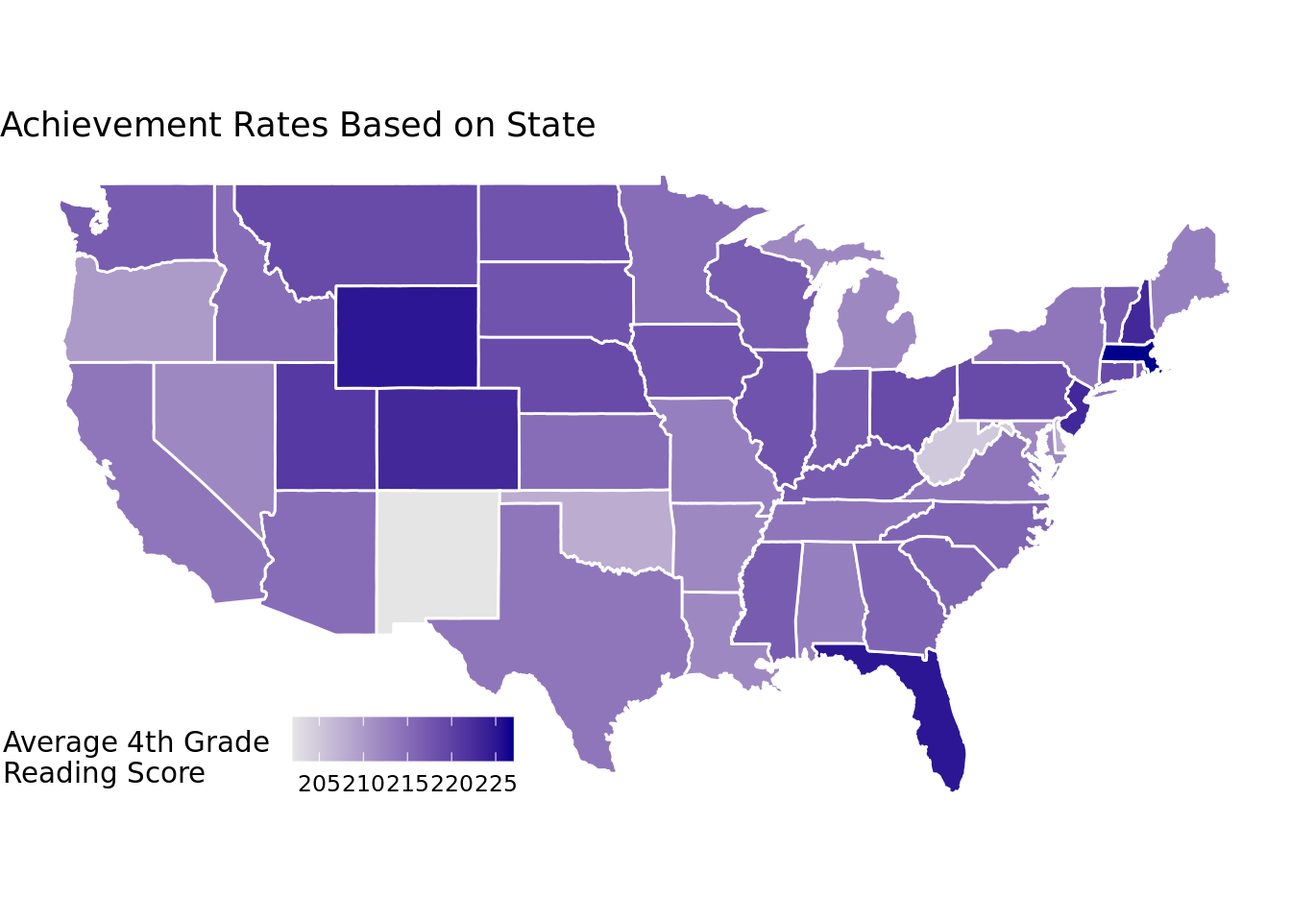
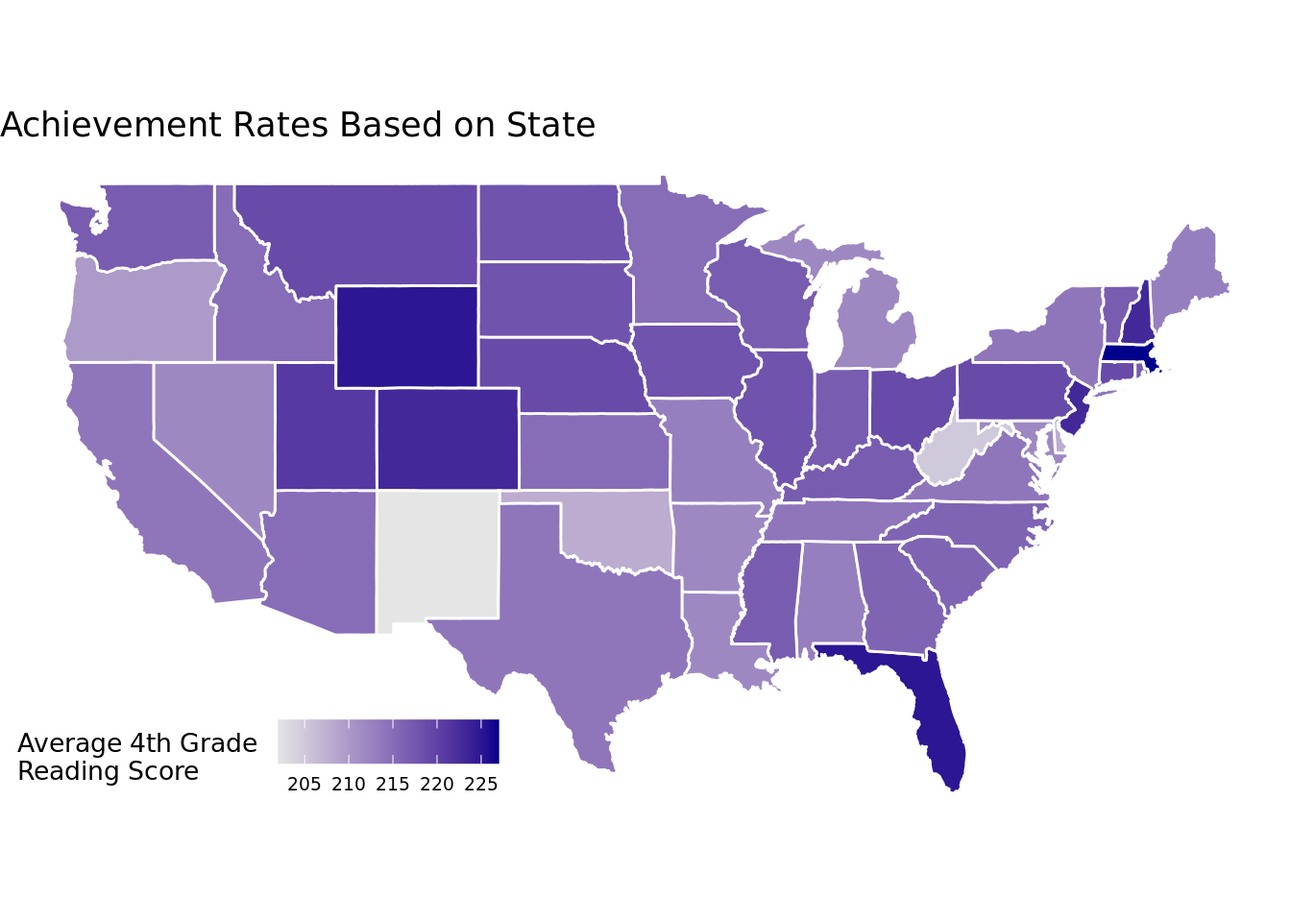
Fixing choropleth map

Changed region(s): [[0.0, 0.7812, 0.4062, 0.875], [0.25, 0.75, 0.375, 0.7812]]

diff --git a/docs/index.html b/docs/index.html
@@ -221,15 +221,17 @@ pre > code.sourceCode > span > a:first-child::before { text-decoration: underlin
 <span id="cb4-10"><a href="#cb4-10" aria-hidden="true" tabindex="-1"></a>  <span class="fu">geom_polygon</span>(<span class="at">color =</span> <span class="st">"white"</span>) <span class="sc">+</span></span>
 <span id="cb4-11"><a href="#cb4-11" aria-hidden="true" tabindex="-1"></a>  <span class="fu">theme_void</span>() <span class="sc">+</span></span>
 <span id="cb4-12"><a href="#cb4-12" aria-hidden="true" tabindex="-1"></a>  <span class="fu">theme</span>(</span>
-<span id="cb4-13"><a href="#cb4-13" aria-hidden="true" tabindex="-1"></a>    <span class="at">legend.position =</span> <span class="fu">c</span>(.<span class="dv">2</span>, .<span class="dv">1</span>),</span>
-<span id="cb4-14"><a href="#cb4-14" aria-hidden="true" tabindex="-1"></a>    <span class="at">legend.direction =</span> <span class="st">"horizontal"</span></span>
-<span id="cb4-15"><a href="#cb4-15" aria-hidden="true" tabindex="-1"></a>    ) <span class="sc">+</span> </span>
-<span id="cb4-16"><a href="#cb4-16" aria-hidden="true" tabindex="-1"></a>  <span class="fu">scale_fill_gradient</span>(<span class="at">low =</span> <span class="st">"gray90"</span>, <span class="at">high =</span> <span class="st">"darkblue"</span>) <span class="sc">+</span></span>
-<span id="cb4-17"><a href="#cb4-17" aria-hidden="true" tabindex="-1"></a>  <span class="fu">coord_quickmap</span>() <span class="sc">+</span> </span>
-<span id="cb4-18"><a href="#cb4-18" aria-hidden="true" tabindex="-1"></a>  <span class="fu">labs</span>(</span>
-<span id="cb4-19"><a href="#cb4-19" aria-hidden="true" tabindex="-1"></a>    <span class="at">title =</span> <span class="st">"Expenditures Based on State"</span>, </span>
-<span id="cb4-20"><a href="#cb4-20" aria-hidden="true" tabindex="-1"></a>    <span class="at">fill =</span> <span class="st">"Expenditure </span><span class="sc">\n</span><span class="st">per Child </span><span class="sc">\n</span><span class="st">(in thousands)"</span></span>
-<span id="cb4-21"><a href="#cb4-21" aria-hidden="true" tabindex="-1"></a>    )</span></code><button title="Copy to Clipboard" class="code-copy-button"><i class="bi"></i></button></pre></div>
+<span id="cb4-13"><a href="#cb4-13" aria-hidden="true" tabindex="-1"></a>    <span class="at">legend.text =</span> <span class="fu">element_text</span>(<span class="at">size=</span><span class="dv">7</span>),</span>
+<span id="cb4-14"><a href="#cb4-14" aria-hidden="true" tabindex="-1"></a>    <span class="at">legend.title =</span> <span class="fu">element_text</span>(<span class="at">size=</span><span class="dv">10</span>),</span>
+<span id="cb4-15"><a href="#cb4-15" aria-hidden="true" tabindex="-1"></a>    <span class="at">legend.position =</span> <span class="fu">c</span>(.<span class="dv">2</span>, .<span class="dv">1</span>),</span>
+<span id="cb4-16"><a href="#cb4-16" aria-hidden="true" tabindex="-1"></a>    <span class="at">legend.direction =</span> <span class="st">"horizontal"</span></span>
+<span id="cb4-17"><a href="#cb4-17" aria-hidden="true" tabindex="-1"></a>    ) <span class="sc">+</span> </span>
+<span id="cb4-18"><a href="#cb4-18" aria-hidden="true" tabindex="-1"></a>  <span class="fu">scale_fill_gradient</span>(<span class="at">low =</span> <span class="st">"gray90"</span>, <span class="at">high =</span> <span class="st">"darkblue"</span>) <span class="sc">+</span></span>
+<span id="cb4-19"><a href="#cb4-19" aria-hidden="true" tabindex="-1"></a>  <span class="fu">coord_quickmap</span>() <span class="sc">+</span> </span>
+<span id="cb4-20"><a href="#cb4-20" aria-hidden="true" tabindex="-1"></a>  <span class="fu">labs</span>(</span>
+<span id="cb4-21"><a href="#cb4-21" aria-hidden="true" tabindex="-1"></a>    <span class="at">title =</span> <span class="st">"Expenditures Based on State"</span>, </span>
+<span id="cb4-22"><a href="#cb4-22" aria-hidden="true" tabindex="-1"></a>    <span class="at">fill =</span> <span class="st">"Expenditure </span><span class="sc">\n</span><span class="st">per Child </span><span class="sc">\n</span><span class="st">(in thousands)"</span></span>
+<span id="cb4-23"><a href="#cb4-23" aria-hidden="true" tabindex="-1"></a>    )</span></code><button title="Copy to Clipboard" class="code-copy-button"><i class="bi"></i></button></pre></div>
 <div class="cell-output-display">
 <div>
 <figure class="figure">
@@ -240,7 +242,8 @@ pre > code.sourceCode > span > a:first-child::before { text-decoration: underlin
 </div>
 <div class="cell">
 <div class="sourceCode cell-code" id="cb5"><pre class="sourceCode r code-with-copy"><code class="sourceCode r"><span id="cb5-1"><a href="#cb5-1" aria-hidden="true" tabindex="-1"></a>scores_new <span class="ot">&lt;-</span> scores <span class="sc">|&gt;</span> </span>
-<span id="cb5-2"><a href="#cb5-2" aria-hidden="true" tabindex="-1"></a>  <span class="fu">mutate</span>(<span class="at">region =</span> <span class="fu">str_to_lower</span>(Jurisdiction), <span class="at">MN =</span> <span class="fu">as.numeric</span>(MN))</span></code><button title="Copy to Clipboard" class="code-copy-button"><i class="bi"></i></button></pre></div>
+<span id="cb5-2"><a href="#cb5-2" aria-hidden="true" tabindex="-1"></a>  <span class="fu">filter</span>(MN <span class="sc">!=</span> <span class="fu">is.na</span>(MN)) <span class="sc">|&gt;</span></span>
+<span id="cb5-3"><a href="#cb5-3" aria-hidden="true" tabindex="-1"></a>  <span class="fu">mutate</span>(<span class="at">region =</span> <span class="fu">str_to_lower</span>(Jurisdiction), <span class="at">MN =</span> <span class="fu">as.numeric</span>(MN))</span></code><button title="Copy to Clipboard" class="code-copy-button"><i class="bi"></i></button></pre></div>
 <div class="cell-output cell-output-stderr">
 <pre><code>Warning: There was 1 warning in `mutate()`.
 ℹ In argument: `MN = as.numeric(MN)`.
@@ -260,14 +263,16 @@ Caused by warning:
 <span id="cb7-11"><a href="#cb7-11" aria-hidden="true" tabindex="-1"></a>  <span class="fu">theme_void</span>() <span class="sc">+</span> </span>
 <span id="cb7-12"><a href="#cb7-12" aria-hidden="true" tabindex="-1"></a>  <span class="fu">scale_fill_gradient</span>(<span class="at">low =</span> <span class="st">"gray90"</span>, <span class="at">high =</span> <span class="st">"darkblue"</span>) <span class="sc">+</span></span>
 <span id="cb7-13"><a href="#cb7-13" aria-hidden="true" tabindex="-1"></a>  <span class="fu">theme</span>(</span>
-<span id="cb7-14"><a href="#cb7-14" aria-hidden="true" tabindex="-1"></a>    <span class="at">legend.position =</span> <span class="fu">c</span>(.<span class="dv">2</span>, .<span class="dv">1</span>),</span>
-<span id="cb7-15"><a href="#cb7-15" aria-hidden="true" tabindex="-1"></a>    <span class="at">legend.direction =</span> <span class="st">"horizontal"</span>, </span>
-<span id="cb7-16"><a href="#cb7-16" aria-hidden="true" tabindex="-1"></a>        ) <span class="sc">+</span></span>
-<span id="cb7-17"><a href="#cb7-17" aria-hidden="true" tabindex="-1"></a>  <span class="fu">coord_quickmap</span>() <span class="sc">+</span> </span>
-<span id="cb7-18"><a href="#cb7-18" aria-hidden="true" tabindex="-1"></a>  <span class="fu">labs</span>(</span>
-<span id="cb7-19"><a href="#cb7-19" aria-hidden="true" tabindex="-1"></a>    <span class="at">title =</span> <span class="st">"Achievement Rates Based on State"</span>, </span>
-<span id="cb7-20"><a href="#cb7-20" aria-hidden="true" tabindex="-1"></a>    <span class="at">fill =</span> <span class="st">"Average 4th Grade </span><span class="sc">\n</span><span class="st">Reading Score"</span></span>
-<span id="cb7-21"><a href="#cb7-21" aria-hidden="true" tabindex="-1"></a>    )</span></code><button title="Copy to Clipboard" class="code-copy-button"><i class="bi"></i></button></pre></div>
+<span id="cb7-14"><a href="#cb7-14" aria-hidden="true" tabindex="-1"></a>    <span class="at">legend.text =</span> <span class="fu">element_text</span>(<span class="at">size=</span><span class="dv">7</span>),</span>
+<span id="cb7-15"><a href="#cb7-15" aria-hidden="true" tabindex="-1"></a>    <span class="at">legend.title =</span> <span class="fu">element_text</span>(<span class="at">size=</span><span class="dv">10</span>),</span>
+<span id="cb7-16"><a href="#cb7-16" aria-hidden="true" tabindex="-1"></a>    <span class="at">legend.position =</span> <span class="fu">c</span>(.<span class="dv">2</span>, .<span class="dv">1</span>),</span>
+<span id="cb7-17"><a href="#cb7-17" aria-hidden="true" tabindex="-1"></a>    <span class="at">legend.direction =</span> <span class="st">"horizontal"</span></span>
+<span id="cb7-18"><a href="#cb7-18" aria-hidden="true" tabindex="-1"></a>        ) <span class="sc">+</span></span>
+<span id="cb7-19"><a href="#cb7-19" aria-hidden="true" tabindex="-1"></a>  <span class="fu">coord_quickmap</span>() <span class="sc">+</span> </span>
+<span id="cb7-20"><a href="#cb7-20" aria-hidden="true" tabindex="-1"></a>  <span class="fu">labs</span>(</span>
+<span id="cb7-21"><a href="#cb7-21" aria-hidden="true" tabindex="-1"></a>    <span class="at">title =</span> <span class="st">"Achievement Rates Based on State"</span>, </span>
+<span id="cb7-22"><a href="#cb7-22" aria-hidden="true" tabindex="-1"></a>    <span class="at">fill =</span> <span class="st">"Average 4th Grade </span><span class="sc">\n</span><span class="st">Reading Score"</span></span>
+<span id="cb7-23"><a href="#cb7-23" aria-hidden="true" tabindex="-1"></a>    )</span></code><button title="Copy to Clipboard" class="code-copy-button"><i class="bi"></i></button></pre></div>
 <div class="cell-output-display">
 <div>
 <figure class="figure">
@@ -301,7 +306,8 @@ Caused by warning:
 <section id="forward-selection-approach-to-linear-regression-model-for-predictors-of-4th-grade-reading-levels" class="level1">
 <h1>Forward Selection Approach to Linear Regression Model for Predictors of 4th Grade Reading Levels</h1>
 <p><strong>Literature Review:</strong> What factors are most important in predicting elementary academic achievement levels?</p>
-<p><a href="https://portal.ct.gov/-/media/SDE/ESSA-Evidence-Guides/Early_Skills_and_Predictors_of_Academic_Success#:~:text=Behavioral%20skills%20have%20been%20found,behavioral%20skills%20are%20developing%20appropriately." class="uri">https://portal.ct.gov/-/media/SDE/ESSA-Evidence-Guides/Early_Skills_and_Predictors_of_Academic_Success#:~:text=Behavioral%20skills%20have%20been%20found,behavioral%20skills%20are%20developing%20appropriately.</a></p>
+<p><a href="https://portal.ct.gov/-/media/SDE/ESSA-Evidence-Guides/Early_Skills_and_Predictors_of_Academic_Success#:~:text=Behavioral%20skills%20have%20been%20found,behavioral%20skills%20are%20developing%20appropriately." class="uri">https://portal.ct.gov/-/media/SDE/ESSA-Evidence-Guides/Early_Skills_and_Predictors_of_Academic_Success</a></p>
+<p><a href="https://portal.ct.gov/-/media/SDE/ESSA-Evidence-Guides/Early_Skills_and_Predictors_of_Academic_Success#:~:text=Behavioral%20skills%20have%20been%20found,behavioral%20skills%20are%20developing%20appropriately." class="uri">#:~:text=Behavioral%20skills%20have%20been%20found,behavioral%20skills%20are%20developing%20appropriately.</a></p>
 <ul>
 <li><p>Behavioral skills, are influenced by parental monitoring and family stability</p>
 <ul>
@@ -332,7 +338,8 @@ Caused by warning:
 <li>Likely mediated by differences in the socioeconomic statuses of families</li>
 </ul></li>
 </ul>
-<p><a href="https://www.apa.org/news/press/releases/2023/06/quality-child-care-science-math#:~:text=Washington%20%E2%80%94%20Children%20who%20receive%20high,by%20the%20American%20Psychological%20Association." class="uri">https://www.apa.org/news/press/releases/2023/06/quality-child-care-science-math#:~:text=Washington%20%E2%80%94%20Children%20who%20receive%20high,by%20the%20American%20Psychological%20Association.</a></p>
+<p><a href="https://www.apa.org/news/press/releases/2023/06/quality-child-care-science-math#:~:text=Washington%20%E2%80%94%20Children%20who%20receive%20high,by%20the%20American%20Psychological%20Association." class="uri">https://www.apa.org/news/press/releases/2023/06/quality-child-care-science-math#:~:text=Washington%20%E2%80%94%20Children%20who%20receive%20high</a></p>
+<p><a href="https://www.apa.org/news/press/releases/2023/06/quality-child-care-science-math#:~:text=Washington%20%E2%80%94%20Children%20who%20receive%20high,by%20the%20American%20Psychological%20Association." class="uri">,by%20the%20American%20Psychological%20Association.</a></p>
 <ul>
 <li>High-quality childcare has been rigorously shown to lead to better performance in science, technology, engineering, and math through high school</li>
 </ul>
@@ -1103,7 +1110,6 @@ Caused by warning:
 <span id="cb15-12"><a href="#cb15-12" aria-hidden="true" tabindex="-1"></a>    <span class="at">names_to =</span> <span class="st">"sector_type"</span>, </span>
 <span id="cb15-13"><a href="#cb15-13" aria-hidden="true" tabindex="-1"></a>    <span class="at">values_to =</span> <span class="st">"sector_percentage"</span></span>
 <span id="cb15-14"><a href="#cb15-14" aria-hidden="true" tabindex="-1"></a>  ) <span class="sc">|&gt;</span></span>
-<<<<<<< HEAD
 <span id="cb15-15"><a href="#cb15-15" aria-hidden="true" tabindex="-1"></a>  <span class="fu">mutate</span>(</span>
 <span id="cb15-16"><a href="#cb15-16" aria-hidden="true" tabindex="-1"></a>    <span class="at">sector_type =</span> <span class="fu">case_when</span>(</span>
 <span id="cb15-17"><a href="#cb15-17" aria-hidden="true" tabindex="-1"></a>    sector_type <span class="sc">==</span> <span class="st">"emp_m"</span> <span class="sc">~</span> <span class="st">"Management and Science"</span>, </span>
@@ -1123,92 +1129,53 @@ Caused by warning:
 <span id="cb15-31"><a href="#cb15-31" aria-hidden="true" tabindex="-1"></a><span class="co">#Grouping and summarizing data </span></span>
 <span id="cb15-32"><a href="#cb15-32" aria-hidden="true" tabindex="-1"></a>summarized_data <span class="ot">&lt;-</span> best_states_data <span class="sc">|&gt;</span></span>
 <span id="cb15-33"><a href="#cb15-33" aria-hidden="true" tabindex="-1"></a>  <span class="fu">group_by</span>(state_name, sector_type) <span class="sc">|&gt;</span></span>
-<span id="cb15-34"><a href="#cb15-34" aria-hidden="true" tabindex="-1"></a>  <span class="fu">summarize</span>(<span class="at">mean_percentage =</span> <span class="fu">mean</span>(sector_percentage)) </span>
-<span id="cb15-35"><a href="#cb15-35" aria-hidden="true" tabindex="-1"></a></span>
-<span id="cb15-36"><a href="#cb15-36" aria-hidden="true" tabindex="-1"></a></span>
-<span id="cb15-37"><a href="#cb15-37" aria-hidden="true" tabindex="-1"></a><span class="co">#Identifying mean percentage in each field in each state in each year</span></span>
-<span id="cb15-38"><a href="#cb15-38" aria-hidden="true" tabindex="-1"></a></span>
-<span id="cb15-39"><a href="#cb15-39" aria-hidden="true" tabindex="-1"></a>summarized_data <span class="ot">&lt;-</span> best_states_data <span class="sc">|&gt;</span></span>
-<span id="cb15-40"><a href="#cb15-40" aria-hidden="true" tabindex="-1"></a>  <span class="fu">group_by</span>(state_name, sector_type, study_year) <span class="sc">|&gt;</span></span>
-<span id="cb15-41"><a href="#cb15-41" aria-hidden="true" tabindex="-1"></a>  <span class="fu">summarize</span>(<span class="at">mean_percentage =</span> <span class="fu">mean</span>(sector_percentage))</span>
-<span id="cb15-42"><a href="#cb15-42" aria-hidden="true" tabindex="-1"></a>  </span>
-<span id="cb15-43"><a href="#cb15-43" aria-hidden="true" tabindex="-1"></a><span class="co">#Merging data </span></span>
-<span id="cb15-44"><a href="#cb15-44" aria-hidden="true" tabindex="-1"></a>merged_final_data <span class="ot">&lt;-</span> <span class="fu">left_join</span>(</span>
-<span id="cb15-45"><a href="#cb15-45" aria-hidden="true" tabindex="-1"></a>  best_states_data, summarized_data, </span>
-<span id="cb15-46"><a href="#cb15-46" aria-hidden="true" tabindex="-1"></a>  <span class="fu">join_by</span>(state_name, sector_type, study_year)</span>
-<span id="cb15-47"><a href="#cb15-47" aria-hidden="true" tabindex="-1"></a>  )</span></code><button title="Copy to Clipboard" class="code-copy-button"><i class="bi"></i></button></pre></div>
+<span id="cb15-34"><a href="#cb15-34" aria-hidden="true" tabindex="-1"></a>  <span class="fu">summarize</span>(<span class="at">mean_percentage =</span> <span class="fu">mean</span>(sector_percentage)) </span></code><button title="Copy to Clipboard" class="code-copy-button"><i class="bi"></i></button></pre></div>
+<div class="cell-output cell-output-stderr">
+<pre><code>`summarise()` has grouped output by 'state_name'. You can override using the
+`.groups` argument.</code></pre>
 </div>
-<div class="cell">
-<div class="sourceCode cell-code" id="cb16"><pre class="sourceCode r code-with-copy"><code class="sourceCode r"><span id="cb16-1"><a href="#cb16-1" aria-hidden="true" tabindex="-1"></a>merged_final_data <span class="ot">&lt;-</span> merged_final_data <span class="sc">|&gt;</span> </span>
-<span id="cb16-2"><a href="#cb16-2" aria-hidden="true" tabindex="-1"></a>  <span class="fu">mutate</span>(</span>
-<span id="cb16-3"><a href="#cb16-3" aria-hidden="true" tabindex="-1"></a>    <span class="at">sector_type =</span> <span class="fu">fct_reorder</span>(</span>
-<span id="cb16-4"><a href="#cb16-4" aria-hidden="true" tabindex="-1"></a>      sector_type, </span>
-<span id="cb16-5"><a href="#cb16-5" aria-hidden="true" tabindex="-1"></a>      mean_percentage, </span>
-<span id="cb16-6"><a href="#cb16-6" aria-hidden="true" tabindex="-1"></a>      <span class="at">.desc =</span> <span class="cn">TRUE</span>, </span>
-<span id="cb16-7"><a href="#cb16-7" aria-hidden="true" tabindex="-1"></a>      <span class="at">.fun =</span> median</span>
-<span id="cb16-8"><a href="#cb16-8" aria-hidden="true" tabindex="-1"></a>      )</span>
-<span id="cb16-9"><a href="#cb16-9" aria-hidden="true" tabindex="-1"></a>    ) <span class="sc">|&gt;</span> </span>
-<span id="cb16-10"><a href="#cb16-10" aria-hidden="true" tabindex="-1"></a>  <span class="fu">filter</span>(<span class="sc">!</span><span class="fu">is.na</span>(state_name))</span>
-<span id="cb16-11"><a href="#cb16-11" aria-hidden="true" tabindex="-1"></a></span>
-<span id="cb16-12"><a href="#cb16-12" aria-hidden="true" tabindex="-1"></a><span class="co">#Creating visualization</span></span>
-<span id="cb16-13"><a href="#cb16-13" aria-hidden="true" tabindex="-1"></a>merged_final_data <span class="sc">|&gt;</span> </span>
-<span id="cb16-14"><a href="#cb16-14" aria-hidden="true" tabindex="-1"></a>  <span class="fu">ggplot</span>(<span class="fu">aes</span>(<span class="at">x =</span> study_year, <span class="at">y =</span> mean_percentage, <span class="at">fill =</span> sector_type)) <span class="sc">+</span> </span>
-<span id="cb16-15"><a href="#cb16-15" aria-hidden="true" tabindex="-1"></a>  <span class="fu">geom_density</span>(<span class="at">stat =</span> <span class="st">"identity"</span>, <span class="at">alpha =</span> <span class="fl">0.5</span>) <span class="sc">+</span></span>
-<span id="cb16-16"><a href="#cb16-16" aria-hidden="true" tabindex="-1"></a>  <span class="fu">facet_wrap</span>(<span class="sc">~</span> state_name) <span class="sc">+</span></span>
-<span id="cb16-17"><a href="#cb16-17" aria-hidden="true" tabindex="-1"></a>  <span class="fu">scale_x_continuous</span>(<span class="at">breaks =</span> <span class="fu">c</span>(<span class="dv">2008</span>, <span class="dv">2010</span>, <span class="dv">2012</span>, <span class="dv">2014</span>, <span class="dv">2016</span>, <span class="dv">2018</span>)) <span class="sc">+</span></span>
-<span id="cb16-18"><a href="#cb16-18" aria-hidden="true" tabindex="-1"></a>  <span class="fu">labs</span>(</span>
-<span id="cb16-19"><a href="#cb16-19" aria-hidden="true" tabindex="-1"></a>    <span class="at">x =</span> <span class="st">"Year"</span>,</span>
-<span id="cb16-20"><a href="#cb16-20" aria-hidden="true" tabindex="-1"></a>    <span class="at">y =</span> <span class="st">"Population Percentage Employed"</span>,</span>
-<span id="cb16-21"><a href="#cb16-21" aria-hidden="true" tabindex="-1"></a>    <span class="at">title =</span> <span class="st">"Percentage of Population Employed in Sector by State"</span>,</span>
-<span id="cb16-22"><a href="#cb16-22" aria-hidden="true" tabindex="-1"></a>    <span class="at">fill =</span> <span class="st">"Sector"</span></span>
-<span id="cb16-23"><a href="#cb16-23" aria-hidden="true" tabindex="-1"></a>    ) <span class="sc">+</span></span>
-<span id="cb16-24"><a href="#cb16-24" aria-hidden="true" tabindex="-1"></a>  <span class="fu">theme_bw</span>() <span class="sc">+</span></span>
-<span id="cb16-25"><a href="#cb16-25" aria-hidden="true" tabindex="-1"></a>  <span class="fu">scale_fill_viridis_d</span>(<span class="at">option =</span> <span class="st">"B"</span>)</span></code><button title="Copy to Clipboard" class="code-copy-button"><i class="bi"></i></button></pre></div>
-=======
-<span id="cb15-15"><a href="#cb15-15" aria-hidden="true" tabindex="-1"></a>  <span class="fu">mutate</span>(<span class="at">sector_type =</span> <span class="fu">case_when</span>(</span>
-<span id="cb15-16"><a href="#cb15-16" aria-hidden="true" tabindex="-1"></a>    sector_type <span class="sc">==</span> <span class="st">"emp_m"</span> <span class="sc">~</span> <span class="st">"Management and Science"</span>, </span>
-<span id="cb15-17"><a href="#cb15-17" aria-hidden="true" tabindex="-1"></a>    sector_type <span class="sc">==</span> <span class="st">"emp_n"</span> <span class="sc">~</span> <span class="st">"Natural Resources"</span>, </span>
-<span id="cb15-18"><a href="#cb15-18" aria-hidden="true" tabindex="-1"></a>    sector_type <span class="sc">==</span> <span class="st">"emp_p"</span> <span class="sc">~</span> <span class="st">"Production"</span>, </span>
-<span id="cb15-19"><a href="#cb15-19" aria-hidden="true" tabindex="-1"></a>    sector_type <span class="sc">==</span> <span class="st">"emp_service"</span> <span class="sc">~</span> <span class="st">"Public Service"</span>,</span>
-<span id="cb15-20"><a href="#cb15-20" aria-hidden="true" tabindex="-1"></a>    sector_type <span class="sc">==</span> <span class="st">"emp_sales"</span> <span class="sc">~</span> <span class="st">"Sales and Office"</span></span>
-<span id="cb15-21"><a href="#cb15-21" aria-hidden="true" tabindex="-1"></a>    ), </span>
-<span id="cb15-22"><a href="#cb15-22" aria-hidden="true" tabindex="-1"></a>    <span class="at">state_name =</span> <span class="fu">case_when</span>(</span>
-<span id="cb15-23"><a href="#cb15-23" aria-hidden="true" tabindex="-1"></a>      state_name <span class="sc">==</span> <span class="st">"Massachusetts"</span> <span class="sc">~</span> <span class="st">"MA"</span>, </span>
-<span id="cb15-24"><a href="#cb15-24" aria-hidden="true" tabindex="-1"></a>      state_name <span class="sc">==</span> <span class="st">"New Hampshire"</span> <span class="sc">~</span> <span class="st">"NH"</span>,</span>
-<span id="cb15-25"><a href="#cb15-25" aria-hidden="true" tabindex="-1"></a>      state_name <span class="sc">==</span> <span class="st">"New Jersey"</span> <span class="sc">~</span> <span class="st">"NJ"</span>,</span>
-<span id="cb15-26"><a href="#cb15-26" aria-hidden="true" tabindex="-1"></a>      state_name <span class="sc">==</span> <span class="st">"Wyoming"</span> <span class="sc">~</span> <span class="st">"WY"</span></span>
-<span id="cb15-27"><a href="#cb15-27" aria-hidden="true" tabindex="-1"></a>    )</span>
-<span id="cb15-28"><a href="#cb15-28" aria-hidden="true" tabindex="-1"></a>  )</span>
-<span id="cb15-29"><a href="#cb15-29" aria-hidden="true" tabindex="-1"></a></span>
-<span id="cb15-30"><a href="#cb15-30" aria-hidden="true" tabindex="-1"></a><span class="co">#Identifying mean percentage in each field in each state in each year</span></span>
-<span id="cb15-31"><a href="#cb15-31" aria-hidden="true" tabindex="-1"></a></span>
-<span id="cb15-32"><a href="#cb15-32" aria-hidden="true" tabindex="-1"></a>summarized_data <span class="ot">&lt;-</span> best_states_data <span class="sc">|&gt;</span></span>
-<span id="cb15-33"><a href="#cb15-33" aria-hidden="true" tabindex="-1"></a>  <span class="fu">group_by</span>(state_name, sector_type, study_year) <span class="sc">|&gt;</span></span>
-<span id="cb15-34"><a href="#cb15-34" aria-hidden="true" tabindex="-1"></a>  <span class="fu">summarize</span>(<span class="at">mean_percentage =</span> <span class="fu">mean</span>(sector_percentage))</span></code><button title="Copy to Clipboard" class="code-copy-button"><i class="bi"></i></button></pre></div>
+<div class="sourceCode cell-code" id="cb17"><pre class="sourceCode r code-with-copy"><code class="sourceCode r"><span id="cb17-1"><a href="#cb17-1" aria-hidden="true" tabindex="-1"></a><span class="co">#Identifying mean percentage in each field in each state in each year</span></span>
+<span id="cb17-2"><a href="#cb17-2" aria-hidden="true" tabindex="-1"></a></span>
+<span id="cb17-3"><a href="#cb17-3" aria-hidden="true" tabindex="-1"></a>summarized_data <span class="ot">&lt;-</span> best_states_data <span class="sc">|&gt;</span></span>
+<span id="cb17-4"><a href="#cb17-4" aria-hidden="true" tabindex="-1"></a>  <span class="fu">group_by</span>(state_name, sector_type, study_year) <span class="sc">|&gt;</span></span>
+<span id="cb17-5"><a href="#cb17-5" aria-hidden="true" tabindex="-1"></a>  <span class="fu">summarize</span>(<span class="at">mean_percentage =</span> <span class="fu">mean</span>(sector_percentage))</span></code><button title="Copy to Clipboard" class="code-copy-button"><i class="bi"></i></button></pre></div>
 <div class="cell-output cell-output-stderr">
 <pre><code>`summarise()` has grouped output by 'state_name', 'sector_type'. You can
 override using the `.groups` argument.</code></pre>
 </div>
-<div class="sourceCode cell-code" id="cb17"><pre class="sourceCode r code-with-copy"><code class="sourceCode r"><span id="cb17-1"><a href="#cb17-1" aria-hidden="true" tabindex="-1"></a><span class="co">#Merging data </span></span>
-<span id="cb17-2"><a href="#cb17-2" aria-hidden="true" tabindex="-1"></a>merged_final_data <span class="ot">&lt;-</span> <span class="fu">left_join</span>(best_states_data, summarized_data, <span class="fu">join_by</span>(state_name, sector_type, study_year))</span></code><button title="Copy to Clipboard" class="code-copy-button"><i class="bi"></i></button></pre></div>
+<div class="sourceCode cell-code" id="cb19"><pre class="sourceCode r code-with-copy"><code class="sourceCode r"><span id="cb19-1"><a href="#cb19-1" aria-hidden="true" tabindex="-1"></a><span class="co">#Merging data </span></span>
+<span id="cb19-2"><a href="#cb19-2" aria-hidden="true" tabindex="-1"></a>merged_final_data <span class="ot">&lt;-</span> <span class="fu">left_join</span>(</span>
+<span id="cb19-3"><a href="#cb19-3" aria-hidden="true" tabindex="-1"></a>  best_states_data, summarized_data, </span>
+<span id="cb19-4"><a href="#cb19-4" aria-hidden="true" tabindex="-1"></a>  <span class="fu">join_by</span>(state_name, sector_type, study_year)</span>
+<span id="cb19-5"><a href="#cb19-5" aria-hidden="true" tabindex="-1"></a>  )</span></code><button title="Copy to Clipboard" class="code-copy-button"><i class="bi"></i></button></pre></div>
 </div>
 <div class="cell">
-<div class="sourceCode cell-code" id="cb18"><pre class="sourceCode r code-with-copy"><code class="sourceCode r"><span id="cb18-1"><a href="#cb18-1" aria-hidden="true" tabindex="-1"></a><span class="co">#Creating visualization 3</span></span>
-<span id="cb18-2"><a href="#cb18-2" aria-hidden="true" tabindex="-1"></a>merged_final_data <span class="ot">&lt;-</span> merged_final_data <span class="sc">|&gt;</span> </span>
-<span id="cb18-3"><a href="#cb18-3" aria-hidden="true" tabindex="-1"></a>  <span class="fu">mutate</span>(</span>
-<span id="cb18-4"><a href="#cb18-4" aria-hidden="true" tabindex="-1"></a>    <span class="at">sector_type =</span> <span class="fu">fct_reorder</span>(sector_type, mean_percentage, <span class="at">.desc =</span> <span class="cn">TRUE</span>, <span class="at">.fun =</span> median)</span>
-<span id="cb18-5"><a href="#cb18-5" aria-hidden="true" tabindex="-1"></a>  ) <span class="sc">|&gt;</span> </span>
-<span id="cb18-6"><a href="#cb18-6" aria-hidden="true" tabindex="-1"></a>  <span class="fu">filter</span>(<span class="sc">!</span><span class="fu">is.na</span>(state_name))</span>
-<span id="cb18-7"><a href="#cb18-7" aria-hidden="true" tabindex="-1"></a></span>
-<span id="cb18-8"><a href="#cb18-8" aria-hidden="true" tabindex="-1"></a>merged_final_data <span class="sc">|&gt;</span> </span>
-<span id="cb18-9"><a href="#cb18-9" aria-hidden="true" tabindex="-1"></a>  <span class="fu">ggplot</span>(<span class="fu">aes</span>(<span class="at">x =</span> study_year, <span class="at">y =</span> mean_percentage, <span class="at">fill =</span> sector_type)) <span class="sc">+</span> </span>
-<span id="cb18-10"><a href="#cb18-10" aria-hidden="true" tabindex="-1"></a>  <span class="fu">geom_density</span>(<span class="at">stat =</span> <span class="st">"identity"</span>, <span class="at">alpha =</span> <span class="fl">0.5</span>) <span class="sc">+</span></span>
-<span id="cb18-11"><a href="#cb18-11" aria-hidden="true" tabindex="-1"></a>  <span class="fu">facet_wrap</span>(<span class="sc">~</span> state_name) <span class="sc">+</span></span>
-<span id="cb18-12"><a href="#cb18-12" aria-hidden="true" tabindex="-1"></a>  <span class="fu">scale_x_continuous</span>(<span class="at">breaks =</span> <span class="fu">c</span>(<span class="dv">2008</span>, <span class="dv">2010</span>, <span class="dv">2012</span>, <span class="dv">2014</span>, <span class="dv">2016</span>, <span class="dv">2018</span>)) <span class="sc">+</span></span>
-<span id="cb18-13"><a href="#cb18-13" aria-hidden="true" tabindex="-1"></a>  <span class="fu">labs</span>(<span class="at">x =</span> <span class="st">"Year"</span>, <span class="at">y =</span> <span class="st">"Population Percentage Employed"</span>, <span class="at">title =</span> <span class="st">"Percentage of Population Employed in Sector by State"</span>, <span class="at">fill =</span> <span class="st">"Sector"</span>) <span class="sc">+</span></span>
-<span id="cb18-14"><a href="#cb18-14" aria-hidden="true" tabindex="-1"></a>  <span class="fu">theme_bw</span>() <span class="sc">+</span></span>
-<span id="cb18-15"><a href="#cb18-15" aria-hidden="true" tabindex="-1"></a>  <span class="fu">scale_fill_viridis_d</span>(<span class="at">option =</span> <span class="st">"B"</span>)</span></code><button title="Copy to Clipboard" class="code-copy-button"><i class="bi"></i></button></pre></div>
->>>>>>> 334a747ac9fdf5e939691a904001da71cacc0dcf
+<div class="sourceCode cell-code" id="cb20"><pre class="sourceCode r code-with-copy"><code class="sourceCode r"><span id="cb20-1"><a href="#cb20-1" aria-hidden="true" tabindex="-1"></a><span class="co">#Creating visualization 3</span></span>
+<span id="cb20-2"><a href="#cb20-2" aria-hidden="true" tabindex="-1"></a>merged_final_data <span class="ot">&lt;-</span> merged_final_data <span class="sc">|&gt;</span> </span>
+<span id="cb20-3"><a href="#cb20-3" aria-hidden="true" tabindex="-1"></a>  <span class="fu">mutate</span>(</span>
+<span id="cb20-4"><a href="#cb20-4" aria-hidden="true" tabindex="-1"></a>    <span class="at">sector_type =</span> <span class="fu">fct_reorder</span>(</span>
+<span id="cb20-5"><a href="#cb20-5" aria-hidden="true" tabindex="-1"></a>      sector_type, </span>
+<span id="cb20-6"><a href="#cb20-6" aria-hidden="true" tabindex="-1"></a>      mean_percentage, </span>
+<span id="cb20-7"><a href="#cb20-7" aria-hidden="true" tabindex="-1"></a>      <span class="at">.desc =</span> <span class="cn">TRUE</span>, </span>
+<span id="cb20-8"><a href="#cb20-8" aria-hidden="true" tabindex="-1"></a>      <span class="at">.fun =</span> median</span>
+<span id="cb20-9"><a href="#cb20-9" aria-hidden="true" tabindex="-1"></a>      )</span>
+<span id="cb20-10"><a href="#cb20-10" aria-hidden="true" tabindex="-1"></a>    ) <span class="sc">|&gt;</span> </span>
+<span id="cb20-11"><a href="#cb20-11" aria-hidden="true" tabindex="-1"></a>  <span class="fu">filter</span>(<span class="sc">!</span><span class="fu">is.na</span>(state_name))</span>
+<span id="cb20-12"><a href="#cb20-12" aria-hidden="true" tabindex="-1"></a></span>
+<span id="cb20-13"><a href="#cb20-13" aria-hidden="true" tabindex="-1"></a><span class="co">#Creating visualization</span></span>
+<span id="cb20-14"><a href="#cb20-14" aria-hidden="true" tabindex="-1"></a>merged_final_data <span class="sc">|&gt;</span> </span>
+<span id="cb20-15"><a href="#cb20-15" aria-hidden="true" tabindex="-1"></a>  <span class="fu">ggplot</span>(<span class="fu">aes</span>(<span class="at">x =</span> study_year, <span class="at">y =</span> mean_percentage, <span class="at">fill =</span> sector_type)) <span class="sc">+</span> </span>
+<span id="cb20-16"><a href="#cb20-16" aria-hidden="true" tabindex="-1"></a>  <span class="fu">geom_density</span>(<span class="at">stat =</span> <span class="st">"identity"</span>, <span class="at">alpha =</span> <span class="fl">0.5</span>) <span class="sc">+</span></span>
+<span id="cb20-17"><a href="#cb20-17" aria-hidden="true" tabindex="-1"></a>  <span class="fu">facet_wrap</span>(<span class="sc">~</span> state_name) <span class="sc">+</span></span>
+<span id="cb20-18"><a href="#cb20-18" aria-hidden="true" tabindex="-1"></a>  <span class="fu">scale_x_continuous</span>(<span class="at">breaks =</span> <span class="fu">c</span>(<span class="dv">2008</span>, <span class="dv">2010</span>, <span class="dv">2012</span>, <span class="dv">2014</span>, <span class="dv">2016</span>, <span class="dv">2018</span>)) <span class="sc">+</span></span>
+<span id="cb20-19"><a href="#cb20-19" aria-hidden="true" tabindex="-1"></a>  <span class="fu">labs</span>(</span>
+<span id="cb20-20"><a href="#cb20-20" aria-hidden="true" tabindex="-1"></a>    <span class="at">x =</span> <span class="st">"Year"</span>,</span>
+<span id="cb20-21"><a href="#cb20-21" aria-hidden="true" tabindex="-1"></a>    <span class="at">y =</span> <span class="st">"Population Percentage Employed"</span>,</span>
+<span id="cb20-22"><a href="#cb20-22" aria-hidden="true" tabindex="-1"></a>    <span class="at">title =</span> <span class="st">"Percentage of Population Employed in Sector by State"</span>,</span>
+<span id="cb20-23"><a href="#cb20-23" aria-hidden="true" tabindex="-1"></a>    <span class="at">fill =</span> <span class="st">"Sector"</span></span>
+<span id="cb20-24"><a href="#cb20-24" aria-hidden="true" tabindex="-1"></a>    ) <span class="sc">+</span></span>
+<span id="cb20-25"><a href="#cb20-25" aria-hidden="true" tabindex="-1"></a>  <span class="fu">theme_bw</span>() <span class="sc">+</span></span>
+<span id="cb20-26"><a href="#cb20-26" aria-hidden="true" tabindex="-1"></a>  <span class="fu">scale_fill_viridis_d</span>(<span class="at">option =</span> <span class="st">"B"</span>)</span></code><button title="Copy to Clipboard" class="code-copy-button"><i class="bi"></i></button></pre></div>
 <div class="cell-output-display">
 <div>
 <figure class="figure">
